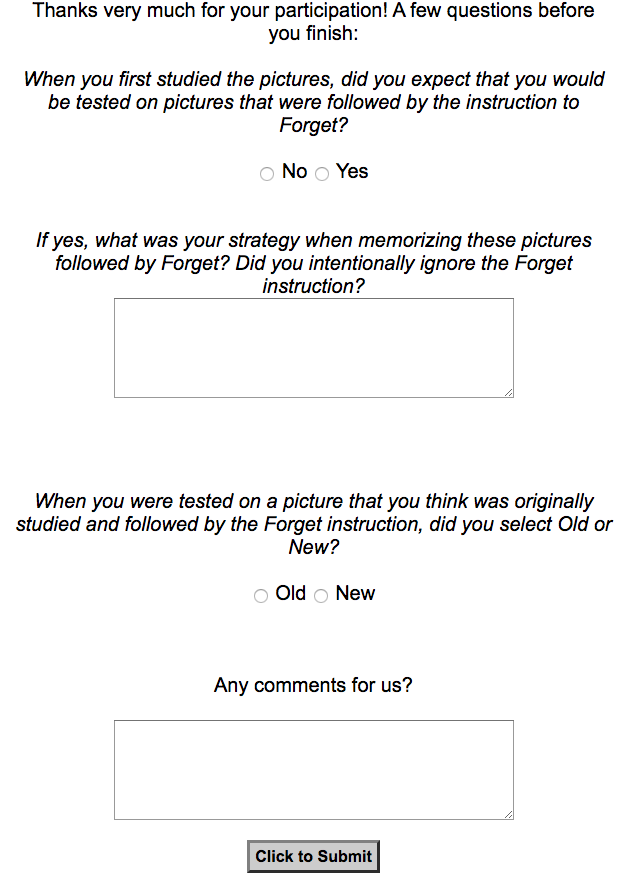
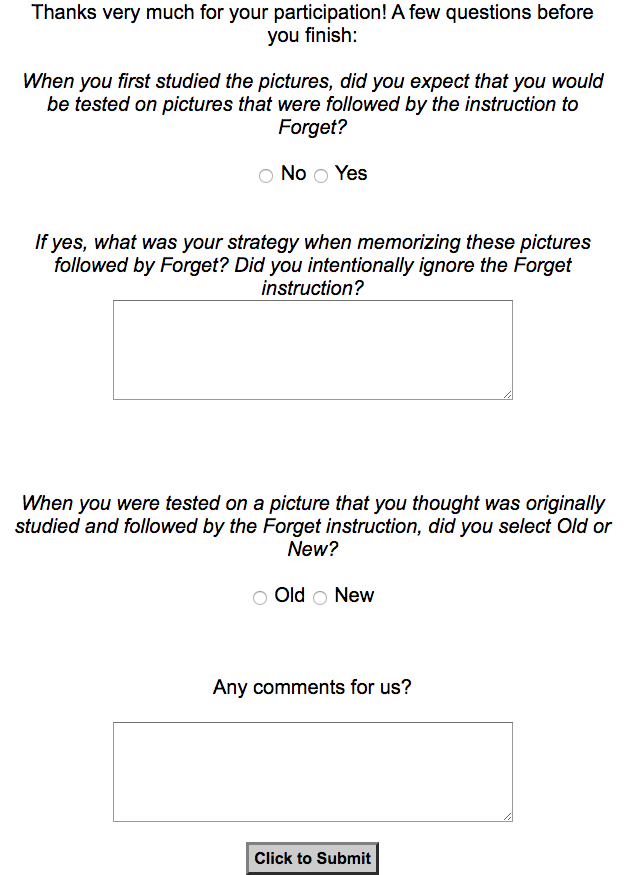
ready

diff --git a/expts/dfsolo/GeneralProcedure_mturk_1a.html b/expts/dfsolo/GeneralProcedure_mturk_1a.html
@@ -861,7 +861,7 @@
         '<input type="radio" name="q1" value="1"> Yes<br>' +
         '<br><br><i>If yes, what was your strategy when memorizing these pictures followed by Forget? Did you intentionally ignore the Forget instruction?</i><br>' +
         '<textarea name="comments_strat" id="comments_strat" style="width: 400px; height: 100px"></textarea><br><br><br>' +
-        '<br><br><i>When you were tested on a picture that you think was originally studied and followed by the Forget instruction, did you select Old or New?</i><br>' +
+        '<br><br><i>When you were tested on a picture that you thought was originally studied and followed by the Forget instruction, did you select Old or New?</i><br>' +
         '<br><input type="radio" name="q2" value="0"> Old ' +
         '<input type="radio" name="q2" value="1"> New<br>' +
         '<br><br><br>Any comments for us?<br><br>' +
